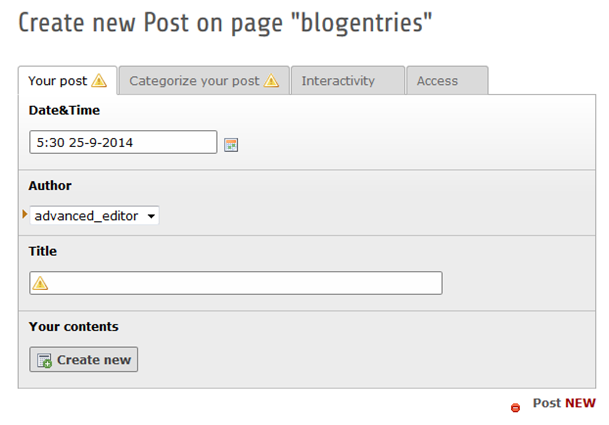
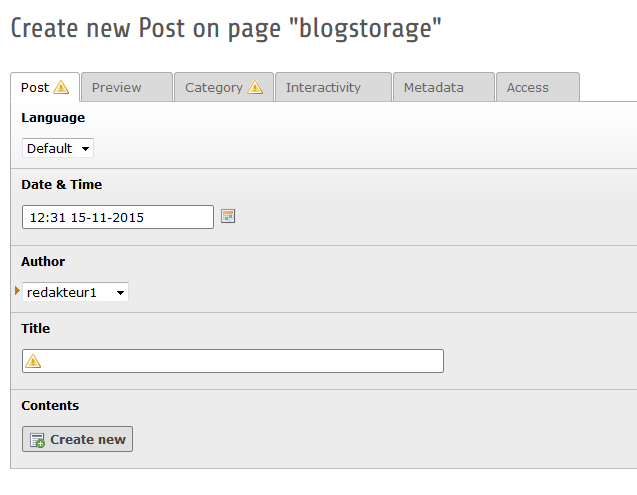
[DOC] Documentation update for version 2.0.0 #2

diff --git a/Documentation/UsersManual/Index.rst b/Documentation/UsersManual/Index.rst
@@ -45,16 +45,39 @@ Create a blogpost
 
 
 .. figure:: ../Images/UserManual/createblogpost.png
-	:width: 609px
+	:width: 671px
 	:alt: Create blogpost
 
 	Create blogost
 
+Post
 
 - Author: is determined by the current BE user
 - Title: title of your blogpost, you need to fill this field
-- Content: click the 'create new' button to add new content elements
+
+Preview
+
 - Preview: configure a list preview for the blog post
+- There are diffrent "Preview modes", i.e. you can add your own preview text or show the first content element
+
+Category:
+
+- select one or more categories
+- you need so select at least one category
+
+Interactivity:
+
+- set option for comments
+
+Metadata:
+
+- Add some Metadata for your blogpost
+- Metadata is used for metadescription and metakeywords
+
+Content:
+
+- click the 'create new' button (post-tab) to add new content elements
+- You can add several content elements
 
 
 Add categories
@@ -77,10 +100,10 @@ You need to add at least one blog category to your post.
 Add blog categories
 -------------------
 
-Use the list view and click the button "create new record", then choose T3Blog Extbase -> categories
+Use the list view and click the button "create new record", to add categories:
 
 .. figure:: ../Images/UserManual/categories.png
-	:width: 159px
+	:width: 223px
 	:alt: Add categories
 
 	Add categories

diff --git a/Documentation/Configuration/Index.rst b/Documentation/Configuration/Index.rst
@@ -5,7 +5,6 @@
 
 .. include:: ../Includes.txt
 
-
 Target group: **Administrators**
 
 
@@ -92,5 +91,27 @@ When using EXT:realurl or similar extension you will need to add additional stat
 .. important::
 	When not using the realurl-autoconfig-feature, you need to add your own configuration!
 
+Overwrite templates (TYPO3 7+)
+------------------------------
 
+::
 
+	plugin.tx_t3extblog {
+        	view {
+                	templateRootPaths >
+                	templateRootPaths {
+                        	0 = EXT:news/Resources/Private/Templates/
+                        	1 = fileadmin/templates/ext/news/Templates/
+                	}
+                	partialRootPaths >
+                	partialRootPaths {
+                        	0 = EXT:news/Resources/Private/Partials/
+                        	1 = fileadmin/templates/ext/news/Partials/
+                	}
+                	layoutRootPaths >
+                	layoutRootPaths {
+                        	0 = EXT:news/Resources/Private/Layouts/
+                        	1 = fileadmin/templates/ext/news/Layouts/
+                	}
+        	}
+	}

diff --git a/Documentation/Installation/Index.rst b/Documentation/Installation/Index.rst
@@ -5,7 +5,6 @@
 
 .. include:: ../Includes.txt
 
-
 .. _installation:
 
 
@@ -16,7 +15,7 @@ Target group: **Administrators**
 
 
 Installation process - step by step
---------------------
+-----------------------------------
 
 In this installation guide, we will override some values and make our Blog more individual.
 Some steps are allready described in the :ref:`Quick Installation <quick_installation>`.

diff --git a/Documentation/Index.rst b/Documentation/Index.rst
@@ -5,7 +5,6 @@
 
 .. include:: Includes.txt
 
-
 .. _start:
 
 =============================================================

diff --git a/Documentation/AdministratorManual/Index.rst b/Documentation/AdministratorManual/Index.rst
@@ -5,7 +5,6 @@
 
 .. include:: ../Includes.txt
 
-
 .. _admin-manual:
 
 Administrator Manual

diff --git a/Documentation/DeveloperGuide/Index.rst b/Documentation/DeveloperGuide/Index.rst
@@ -5,7 +5,6 @@
 
 .. include:: ../Includes.txt
 
-
 .. _developer-guide:
 
 Developer Guide

diff --git a/Documentation/FAQ/Index.rst b/Documentation/FAQ/Index.rst
@@ -5,7 +5,6 @@
 
 .. include:: ../Includes.txt
 
-
 .. _faq:
 
 FAQ
